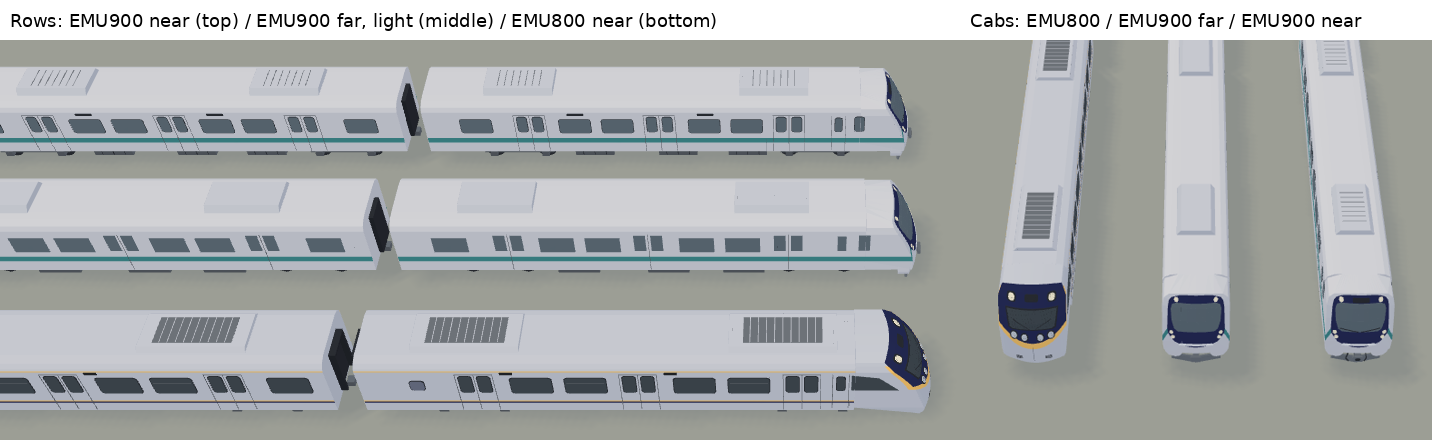
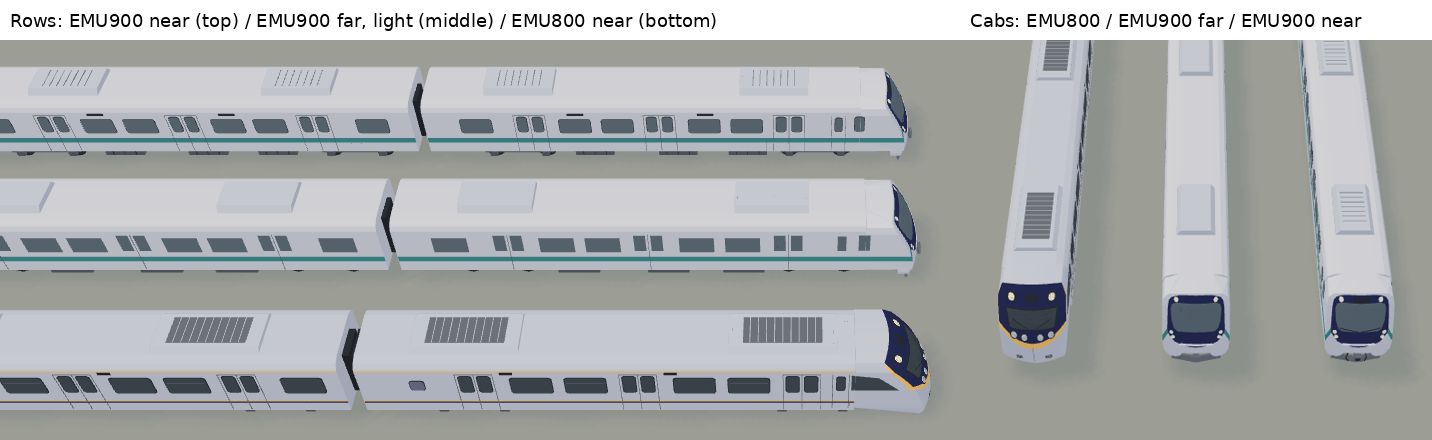
Preview: the cars laid as the game lays them, touching
Claude-Session: https://claude.ai/code/session_01YGNNumLiJeosxVNQZi3pEZ

diff --git a/docs/art/emu900-integration-2026-10-27/README.md b/docs/art/emu900-integration-2026-10-27/README.md
@@ -2,4 +2,4 @@
 
 `overview.png`：`tools/map3d-preview`（WebGL，不是 Metal、不是 iPhone 的畫面）。左：三列各十輛的前兩輛，上 EMU900 近景（`emu900`）、中 EMU900 遠景（`emu900Far`，`light` 單元）、下 EMU800 近景（`emu800`）。右：從前方看三列的車頭，左起 EMU800、EMU900 遠景、EMU900 近景。14:00 的光線，燈在白天看不太出來。
 
-做法：`Map3DPreviewDump.swift.txt` 複製進測試後，把 `MAP3D_TRAINS` 的列車改成只排 `MAP3D_TRAIN_KEYS` 的 set、每列 `MAP3D_TRAIN_CARS` 輛、每輛用 `layout` 的長度（這個改動只在暫時的複本裡，沒有提交），`MAP3D_WORLD=towns MAP3D_CROP=30000:30000:300 MAP3D_TRAINS=30000:30000 MAP3D_TRAIN_KEYS=emu900,emu900Far,emu800 MAP3D_TRAIN_CARS=10`，鏡頭 `a0:30025:30000:40:0` 與 `a270:30025:30000:40:270`。
+做法：`Map3DPreviewDump.swift.txt` 複製進測試後，把 `MAP3D_TRAINS` 的列車改成只排 `MAP3D_TRAIN_KEYS` 的 set、每列 `MAP3D_TRAIN_CARS` 輛、每輛用 `layout` 的長度與間隔（`ownLengths` 的 set 間隔是 0，和遊戲裡玩家的列車一樣；這個改動只在暫時的複本裡，沒有提交），`MAP3D_WORLD=towns MAP3D_CROP=30000:30000:300 MAP3D_TRAINS=30000:30000 MAP3D_TRAIN_KEYS=emu900,emu900Far,emu800 MAP3D_TRAIN_CARS=10`，鏡頭 `a0:30025:30000:40:0` 與 `a270:30025:30000:40:270`。
